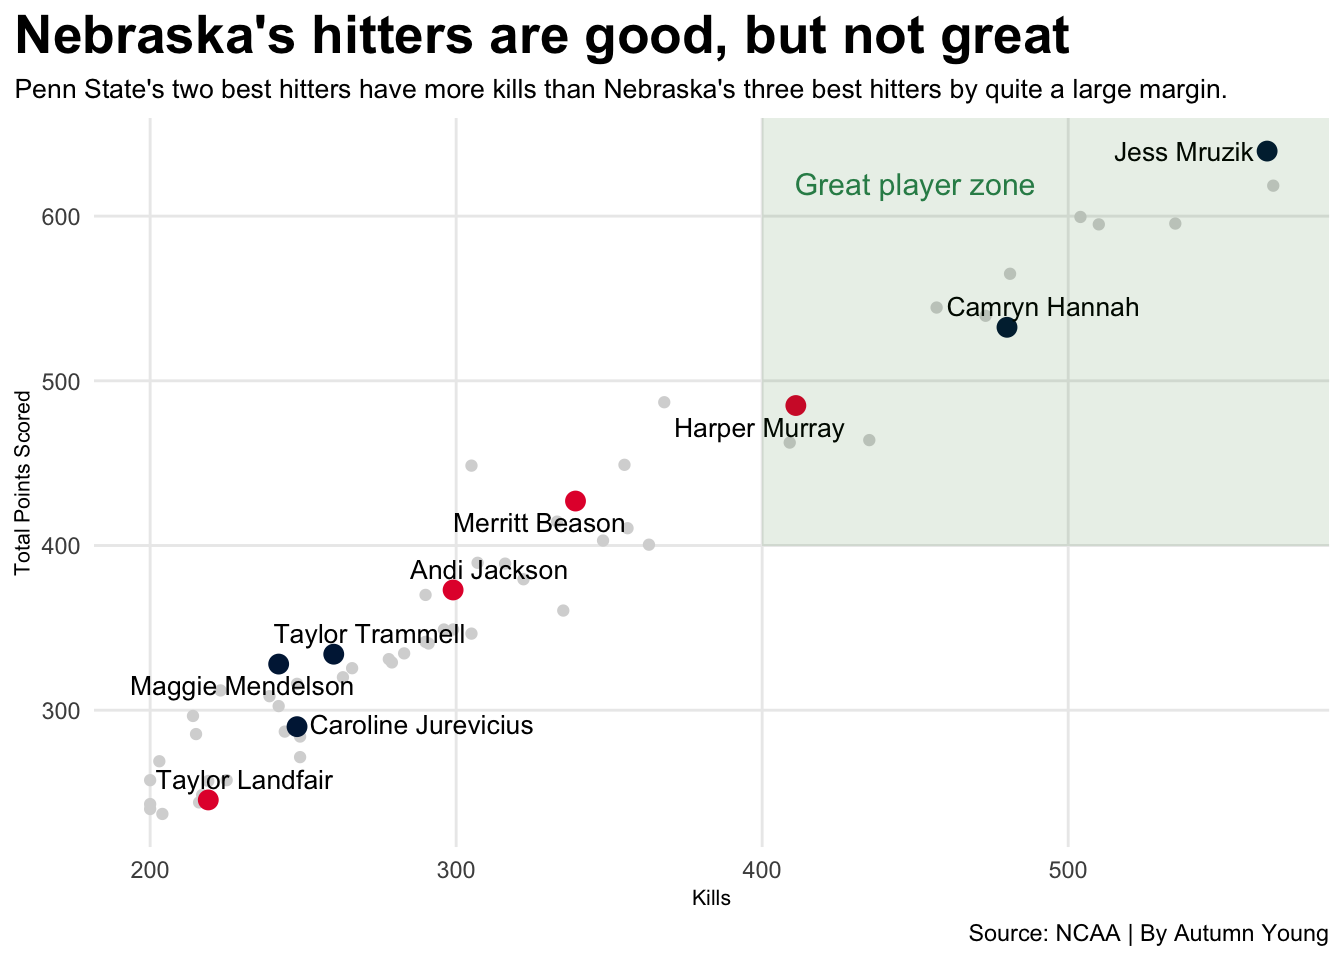
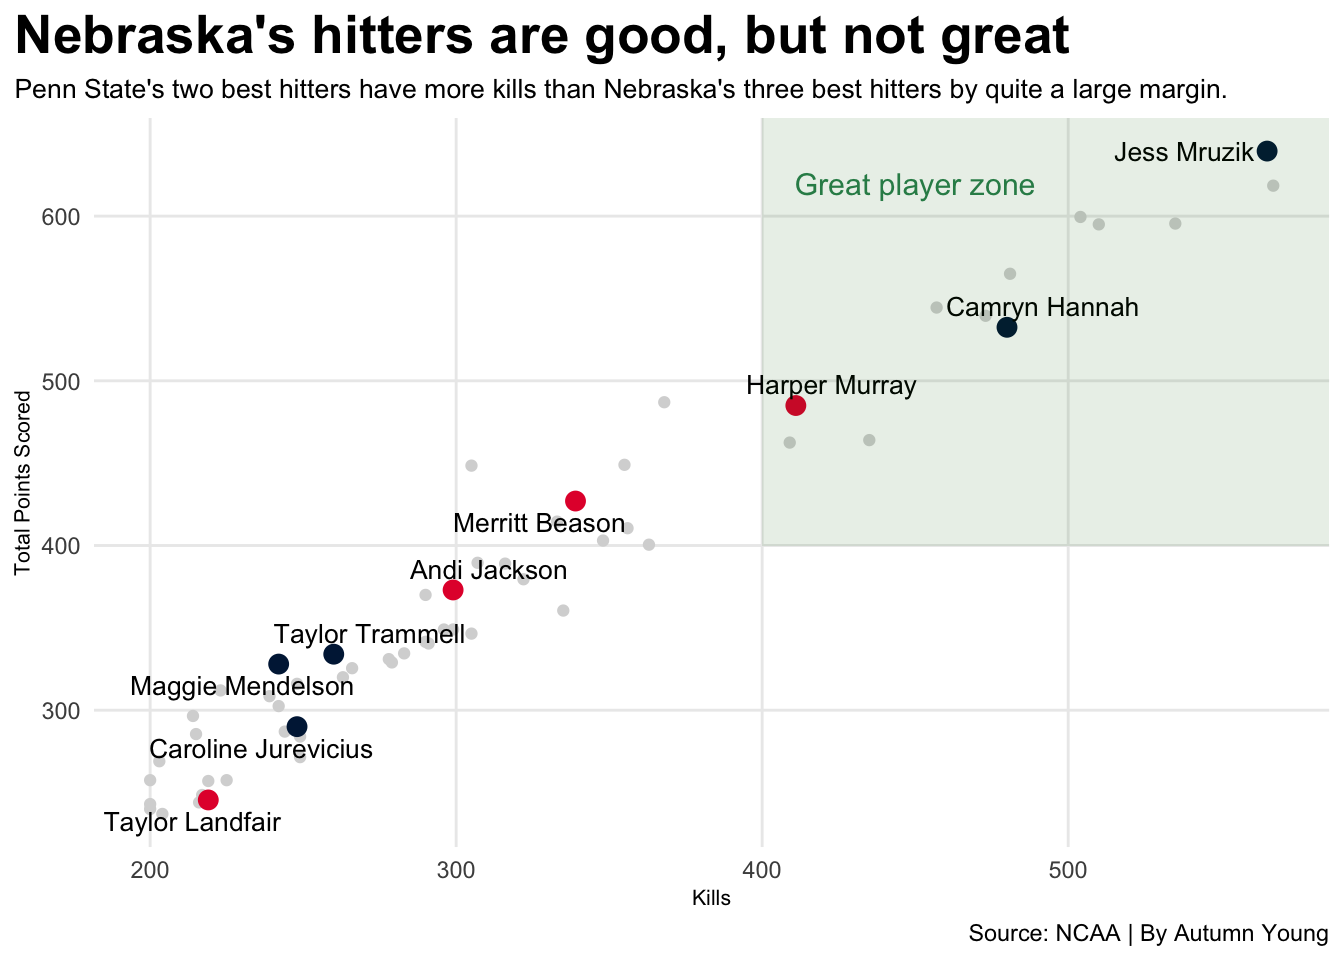
pic

diff --git a/posts/is-penn-state-volleyball-better-than-nebraska-volleyball/index.html b/posts/is-penn-state-volleyball-better-than-nebraska-volleyball/index.html
@@ -296,23 +296,23 @@ pre > code.sourceCode > span > a:first-child::before { text-decoration: underlin
 <span id="cb1-104"><a href="#cb1-104" aria-hidden="true" tabindex="-1"></a>  )</span></code><button title="Copy to Clipboard" class="code-copy-button"><i class="bi"></i></button></pre></div>
 </details>
 <div class="cell-output-display">
-<div id="bttfqljhap" style="padding-left:0px;padding-right:0px;padding-top:10px;padding-bottom:10px;overflow-x:auto;overflow-y:auto;width:auto;height:auto;">
-<style>#bttfqljhap table {
+<div id="yuwpsmhpuo" style="padding-left:0px;padding-right:0px;padding-top:10px;padding-bottom:10px;overflow-x:auto;overflow-y:auto;width:auto;height:auto;">
+<style>#yuwpsmhpuo table {
   font-family: system-ui, 'Segoe UI', Roboto, Helvetica, Arial, sans-serif, 'Apple Color Emoji', 'Segoe UI Emoji', 'Segoe UI Symbol', 'Noto Color Emoji';
   -webkit-font-smoothing: antialiased;
   -moz-osx-font-smoothing: grayscale;
 }
 
-#bttfqljhap thead, #bttfqljhap tbody, #bttfqljhap tfoot, #bttfqljhap tr, #bttfqljhap td, #bttfqljhap th {
+#yuwpsmhpuo thead, #yuwpsmhpuo tbody, #yuwpsmhpuo tfoot, #yuwpsmhpuo tr, #yuwpsmhpuo td, #yuwpsmhpuo th {
   border-style: none;
 }
 
-#bttfqljhap p {
+#yuwpsmhpuo p {
   margin: 0;
   padding: 0;
 }
 
-#bttfqljhap .gt_table {
+#yuwpsmhpuo .gt_table {
   display: table;
   border-collapse: collapse;
   line-height: normal;
@@ -338,12 +338,12 @@ pre > code.sourceCode > span > a:first-child::before { text-decoration: underlin
   border-left-color: #D3D3D3;
 }
 
-#bttfqljhap .gt_caption {
+#yuwpsmhpuo .gt_caption {
   padding-top: 4px;
   padding-bottom: 4px;
 }
 
-#bttfqljhap .gt_title {
+#yuwpsmhpuo .gt_title {
   color: #333333;
   font-size: 125%;
   font-weight: initial;
@@ -355,7 +355,7 @@ pre > code.sourceCode > span > a:first-child::before { text-decoration: underlin
   border-bottom-width: 0;
 }
 
-#bttfqljhap .gt_subtitle {
+#yuwpsmhpuo .gt_subtitle {
   color: #333333;
   font-size: 85%;
   font-weight: initial;
@@ -367,7 +367,7 @@ pre > code.sourceCode > span > a:first-child::before { text-decoration: underlin
   border-top-width: 0;
 }
 
-#bttfqljhap .gt_heading {
+#yuwpsmhpuo .gt_heading {
   background-color: #FFFFFF;
   text-align: center;
   border-bottom-color: #FFFFFF;
@@ -379,13 +379,13 @@ pre > code.sourceCode > span > a:first-child::before { text-decoration: underlin
   border-right-color: #D3D3D3;
 }
 
-#bttfqljhap .gt_bottom_border {
+#yuwpsmhpuo .gt_bottom_border {
   border-bottom-style: solid;
   border-bottom-width: 2px;
   border-bottom-color: #D3D3D3;
 }
 
-#bttfqljhap .gt_col_headings {
+#yuwpsmhpuo .gt_col_headings {
   border-top-style: solid;
   border-top-width: 2px;
   border-top-color: #D3D3D3;
@@ -400,7 +400,7 @@ pre > code.sourceCode > span > a:first-child::before { text-decoration: underlin
   border-right-color: #D3D3D3;
 }
 
-#bttfqljhap .gt_col_heading {
+#yuwpsmhpuo .gt_col_heading {
   color: #333333;
   background-color: #FFFFFF;
   font-size: 100%;
@@ -420,7 +420,7 @@ pre > code.sourceCode > span > a:first-child::before { text-decoration: underlin
   overflow-x: hidden;
 }
 
-#bttfqljhap .gt_column_spanner_outer {
+#yuwpsmhpuo .gt_column_spanner_outer {
   color: #333333;
   background-color: #FFFFFF;
   font-size: 100%;
@@ -432,15 +432,15 @@ pre > code.sourceCode > span > a:first-child::before { text-decoration: underlin
   padding-right: 4px;
 }
 
-#bttfqljhap .gt_column_spanner_outer:first-child {
+#yuwpsmhpuo .gt_column_spanner_outer:first-child {
   padding-left: 0;
 }
 
-#bttfqljhap .gt_column_spanner_outer:last-child {
+#yuwpsmhpuo .gt_column_spanner_outer:last-child {
   padding-right: 0;
 }
 
-#bttfqljhap .gt_column_spanner {
+#yuwpsmhpuo .gt_column_spanner {
   border-bottom-style: solid;
   border-bottom-width: 2px;
   border-bottom-color: #D3D3D3;
@@ -452,11 +452,11 @@ pre > code.sourceCode > span > a:first-child::before { text-decoration: underlin
   width: 100%;
 }
 
-#bttfqljhap .gt_spanner_row {
+#yuwpsmhpuo .gt_spanner_row {
   border-bottom-style: hidden;
 }
 
-#bttfqljhap .gt_group_heading {
+#yuwpsmhpuo .gt_group_heading {
   padding-top: 8px;
   padding-bottom: 8px;
   padding-left: 5px;
@@ -482,7 +482,7 @@ pre > code.sourceCode > span > a:first-child::before { text-decoration: underlin
   text-align: left;
 }
 
-#bttfqljhap .gt_empty_group_heading {
+#yuwpsmhpuo .gt_empty_group_heading {
   padding: 0.5px;
   color: #333333;
   background-color: #FFFFFF;
@@ -497,15 +497,15 @@ pre > code.sourceCode > span > a:first-child::before { text-decoration: underlin
   vertical-align: middle;
 }
 
-#bttfqljhap .gt_from_md > :first-child {
+#yuwpsmhpuo .gt_from_md > :first-child {
   margin-top: 0;
 }
 
-#bttfqljhap .gt_from_md > :last-child {
+#yuwpsmhpuo .gt_from_md > :last-child {
   margin-bottom: 0;
 }
 
-#bttfqljhap .gt_row {
+#yuwpsmhpuo .gt_row {
   padding-top: 8px;
   padding-bottom: 8px;
   padding-left: 5px;
@@ -524,7 +524,7 @@ pre > code.sourceCode > span > a:first-child::before { text-decoration: underlin
   overflow-x: hidden;
 }
 
-#bttfqljhap .gt_stub {
+#yuwpsmhpuo .gt_stub {
   color: #333333;
   background-color: #FFFFFF;
   font-size: 100%;
@@ -537,7 +537,7 @@ pre > code.sourceCode > span > a:first-child::before { text-decoration: underlin
   padding-right: 5px;
 }
 
-#bttfqljhap .gt_stub_row_group {
+#yuwpsmhpuo .gt_stub_row_group {
   color: #333333;
   background-color: #FFFFFF;
   font-size: 100%;
@@ -551,15 +551,15 @@ pre > code.sourceCode > span > a:first-child::before { text-decoration: underlin
   vertical-align: top;
 }
 
-#bttfqljhap .gt_row_group_first td {
+#yuwpsmhpuo .gt_row_group_first td {
   border-top-width: 2px;
 }
 
-#bttfqljhap .gt_row_group_first th {
+#yuwpsmhpuo .gt_row_group_first th {
   border-top-width: 2px;
 }
 
-#bttfqljhap .gt_summary_row {
+#yuwpsmhpuo .gt_summary_row {
   color: #333333;
   background-color: #FFFFFF;
   text-transform: inherit;
@@ -569,16 +569,16 @@ pre > code.sourceCode > span > a:first-child::before { text-decoration: underlin
   padding-right: 5px;
 }
 
-#bttfqljhap .gt_first_summary_row {
+#yuwpsmhpuo .gt_first_summary_row {
   border-top-style: solid;
   border-top-color: #D3D3D3;
 }
 
-#bttfqljhap .gt_first_summary_row.thick {
+#yuwpsmhpuo .gt_first_summary_row.thick {
   border-top-width: 2px;
 }
 
-#bttfqljhap .gt_last_summary_row {
+#yuwpsmhpuo .gt_last_summary_row {
   padding-top: 8px;
   padding-bottom: 8px;
   padding-left: 5px;
@@ -588,7 +588,7 @@ pre > code.sourceCode > span > a:first-child::before { text-decoration: underlin
   border-bottom-color: #D3D3D3;
 }
 
-#bttfqljhap .gt_grand_summary_row {
+#yuwpsmhpuo .gt_grand_summary_row {
   color: #333333;
   background-color: #FFFFFF;
   text-transform: inherit;
@@ -598,7 +598,7 @@ pre > code.sourceCode > span > a:first-child::before { text-decoration: underlin
   padding-right: 5px;
 }
 
-#bttfqljhap .gt_first_grand_summary_row {
+#yuwpsmhpuo .gt_first_grand_summary_row {
   padding-top: 8px;
   padding-bottom: 8px;
   padding-left: 5px;
@@ -608,7 +608,7 @@ pre > code.sourceCode > span > a:first-child::before { text-decoration: underlin
   border-top-color: #D3D3D3;
 }
 
-#bttfqljhap .gt_last_grand_summary_row_top {
+#yuwpsmhpuo .gt_last_grand_summary_row_top {
   padding-top: 8px;
   padding-bottom: 8px;
   padding-left: 5px;
@@ -618,11 +618,11 @@ pre > code.sourceCode > span > a:first-child::before { text-decoration: underlin
   border-bottom-color: #D3D3D3;
 }
 
-#bttfqljhap .gt_striped {
+#yuwpsmhpuo .gt_striped {
   background-color: rgba(128, 128, 128, 0.05);
 }
 
-#bttfqljhap .gt_table_body {
+#yuwpsmhpuo .gt_table_body {
   border-top-style: solid;
   border-top-width: 2px;
   border-top-color: #D3D3D3;
@@ -631,7 +631,7 @@ pre > code.sourceCode > span > a:first-child::before { text-decoration: underlin
   border-bottom-color: #D3D3D3;
 }
 
-#bttfqljhap .gt_footnotes {
+#yuwpsmhpuo .gt_footnotes {
   color: #333333;
   background-color: #FFFFFF;
   border-bottom-style: none;
@@ -645,7 +645,7 @@ pre > code.sourceCode > span > a:first-child::before { text-decoration: underlin
   border-right-color: #D3D3D3;
 }
 
-#bttfqljhap .gt_footnote {
+#yuwpsmhpuo .gt_footnote {
   margin: 0px;
   font-size: 90%;
   padding-top: 4px;
@@ -654,7 +654,7 @@ pre > code.sourceCode > span > a:first-child::before { text-decoration: underlin
   padding-right: 5px;
 }
 
-#bttfqljhap .gt_sourcenotes {
+#yuwpsmhpuo .gt_sourcenotes {
   color: #333333;
   background-color: #FFFFFF;
   border-bottom-style: none;
@@ -668,7 +668,7 @@ pre > code.sourceCode > span > a:first-child::before { text-decoration: underlin
   border-right-color: #D3D3D3;
 }
 
-#bttfqljhap .gt_sourcenote {
+#yuwpsmhpuo .gt_sourcenote {
   font-size: 90%;
   padding-top: 4px;
   padding-bottom: 4px;
@@ -676,72 +676,72 @@ pre > code.sourceCode > span > a:first-child::before { text-decoration: underlin
   padding-right: 5px;
 }
 
-#bttfqljhap .gt_left {
+#yuwpsmhpuo .gt_left {
   text-align: left;
 }
 
-#bttfqljhap .gt_center {
+#yuwpsmhpuo .gt_center {
   text-align: center;
 }
 
-#bttfqljhap .gt_right {
+#yuwpsmhpuo .gt_right {
   text-align: right;
   font-variant-numeric: tabular-nums;
 }
 
-#bttfqljhap .gt_font_normal {
+#yuwpsmhpuo .gt_font_normal {
   font-weight: normal;
 }
 
-#bttfqljhap .gt_font_bold {
+#yuwpsmhpuo .gt_font_bold {
   font-weight: bold;
 }
 
-#bttfqljhap .gt_font_italic {
+#yuwpsmhpuo .gt_font_italic {
   font-style: italic;
 }
 
-#bttfqljhap .gt_super {
+#yuwpsmhpuo .gt_super {
   font-size: 65%;
 }
 
-#bttfqljhap .gt_footnote_marks {
+#yuwpsmhpuo .gt_footnote_marks {
   font-size: 75%;
   vertical-align: 0.4em;
   position: initial;
 }
 
-#bttfqljhap .gt_asterisk {
+#yuwpsmhpuo .gt_asterisk {
   font-size: 100%;
   vertical-align: 0;
 }
 
-#bttfqljhap .gt_indent_1 {
+#yuwpsmhpuo .gt_indent_1 {
   text-indent: 5px;
 }
 
-#bttfqljhap .gt_indent_2 {
+#yuwpsmhpuo .gt_indent_2 {
   text-indent: 10px;
 }
 
-#bttfqljhap .gt_indent_3 {
+#yuwpsmhpuo .gt_indent_3 {
   text-indent: 15px;
 }
 
-#bttfqljhap .gt_indent_4 {
+#yuwpsmhpuo .gt_indent_4 {
   text-indent: 20px;
 }
 
-#bttfqljhap .gt_indent_5 {
+#yuwpsmhpuo .gt_indent_5 {
   text-indent: 25px;
 }
 
-#bttfqljhap .katex-display {
+#yuwpsmhpuo .katex-display {
   display: inline-flex !important;
   margin-bottom: 0.75em !important;
 }
 
-#bttfqljhap div.Reactable > div.rt-table > div.rt-thead > div.rt-tr.rt-tr-group-header > div.rt-th-group:after {
+#yuwpsmhpuo div.Reactable > div.rt-table > div.rt-thead > div.rt-tr.rt-tr-group-header > div.rt-th-group:after {
   height: 0px !important;
 }
 </style>
